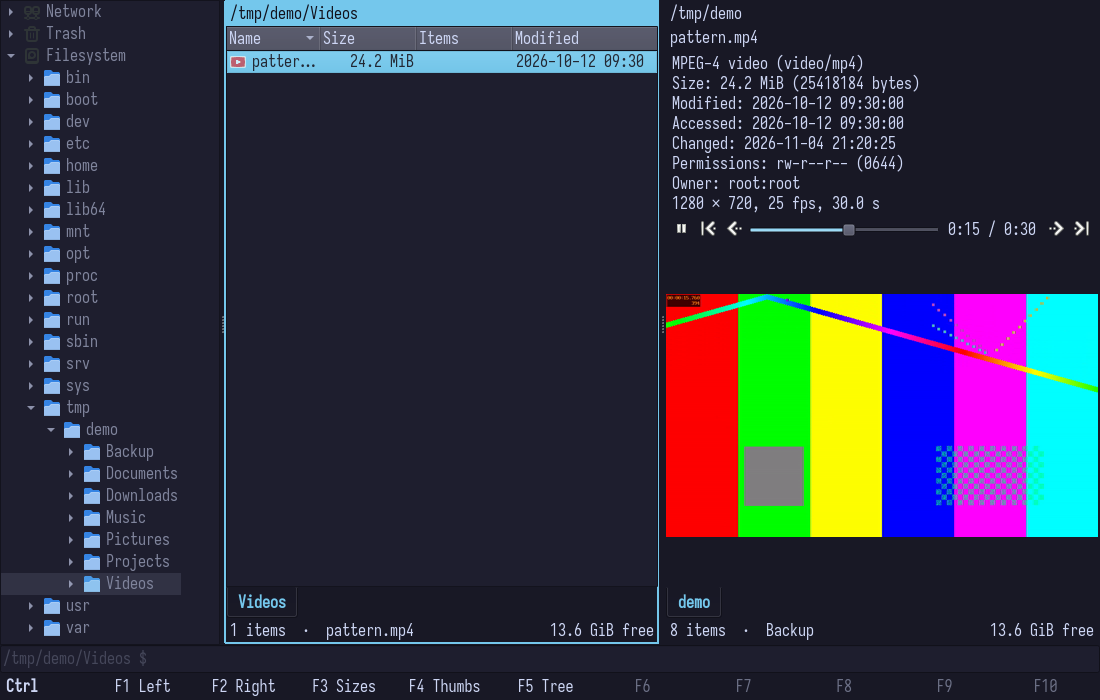
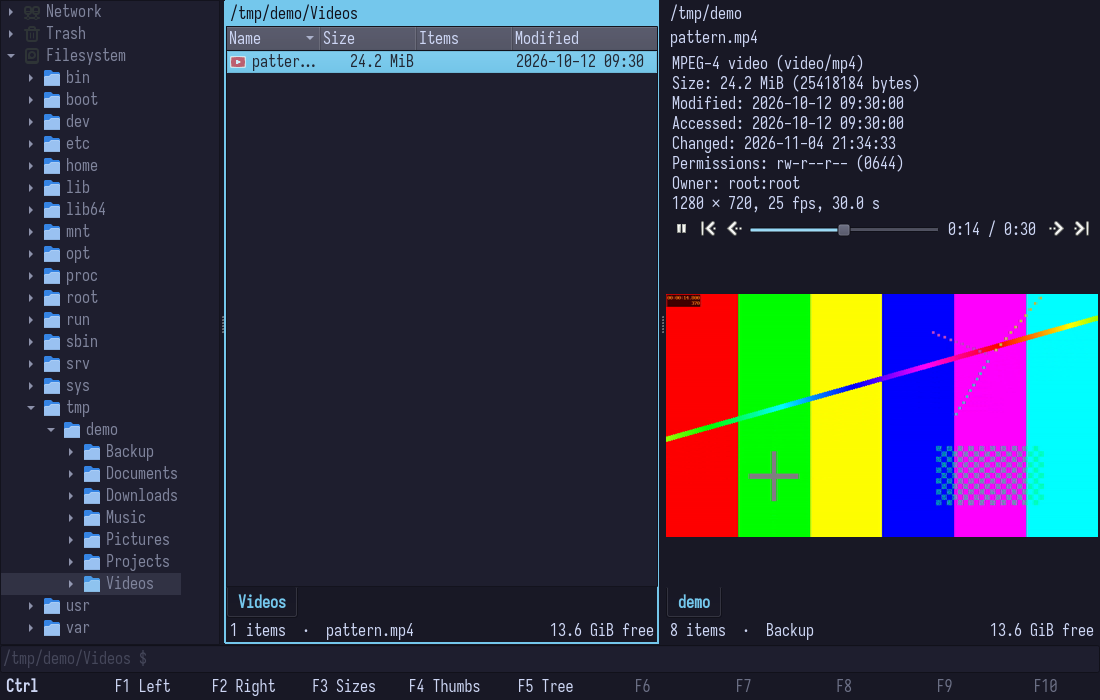
Preview: a video opens paused on its first frame
Playback started on its own when the cursor reached a video, which
decodes for every file passed on the way to the one wanted. Now the
first frame is shown still and Ctrl+P or the play button starts it;
the screenshot takes the same key first.

diff --git a/src/app/videoplay.h b/src/app/videoplay.h
@@ -24,7 +24,7 @@ public:
     VideoPlayer(QWidget* slot, PageStrip* strip, QObject* parent);
     ~VideoPlayer() override;
 
-    // Probes, then plays from the start; frames come through frameReady.
+    // Probes, then shows the first frame paused; frames come through frameReady.
     void start(const core::Location& file);
     // Kills the child and hides the strip.
     void cancel();

diff --git a/src/app/videoplay.cpp b/src/app/videoplay.cpp
@@ -85,7 +85,7 @@ void VideoPlayer::onInfo(quint64 generation, const core::VideoInfo& info)
     if (info.duration > 0)
         line += tr(", %1 s").arg(info.duration, 0, 'f', 1);
     Q_EMIT note(line);
-    restart(0, true);
+    restart(0, false);  // the first frame, still: play is a key away
 }
 
 void VideoPlayer::restart(double at, bool play)

diff --git a/README.md b/README.md
@@ -42,8 +42,9 @@ you can see in the bar at the bottom.
   files, folders, sizes, whether it extracts into one folder or spills
   into the current one, the newest member, and the top of its tree.
   Thumbnails come from tumbler over D-Bus. A PDF shows its pages,
-  rendered at slot size by pdftoppm in a child process; a video plays
-  without sound, decoded at slot size by ffmpeg in a child process.
+  rendered at slot size by pdftoppm in a child process; a video shows
+  its first frame and plays on Ctrl+P, without sound, decoded at slot
+  size by ffmpeg in a child process.
   Ctrl+Home, Ctrl+PgUp, Ctrl+PgDown and Ctrl+End page or seek, Ctrl+P
   plays and pauses, and the strip under the details has the same
   buttons and a playhead.
@@ -66,8 +67,8 @@ buttons; pdftoppm renders each page in a child process:
 
 ![PDF pages](docs/screenshots/pdf-pages.png)
 
-A video playing in the preview, without sound, decoded by ffmpeg in a
-child process; Ctrl+P pauses, the same keys seek:
+A video in the preview, playing after Ctrl+P, without sound, decoded by
+ffmpeg in a child process; the same keys seek:
 
 ![Video](docs/screenshots/video.png)
 
